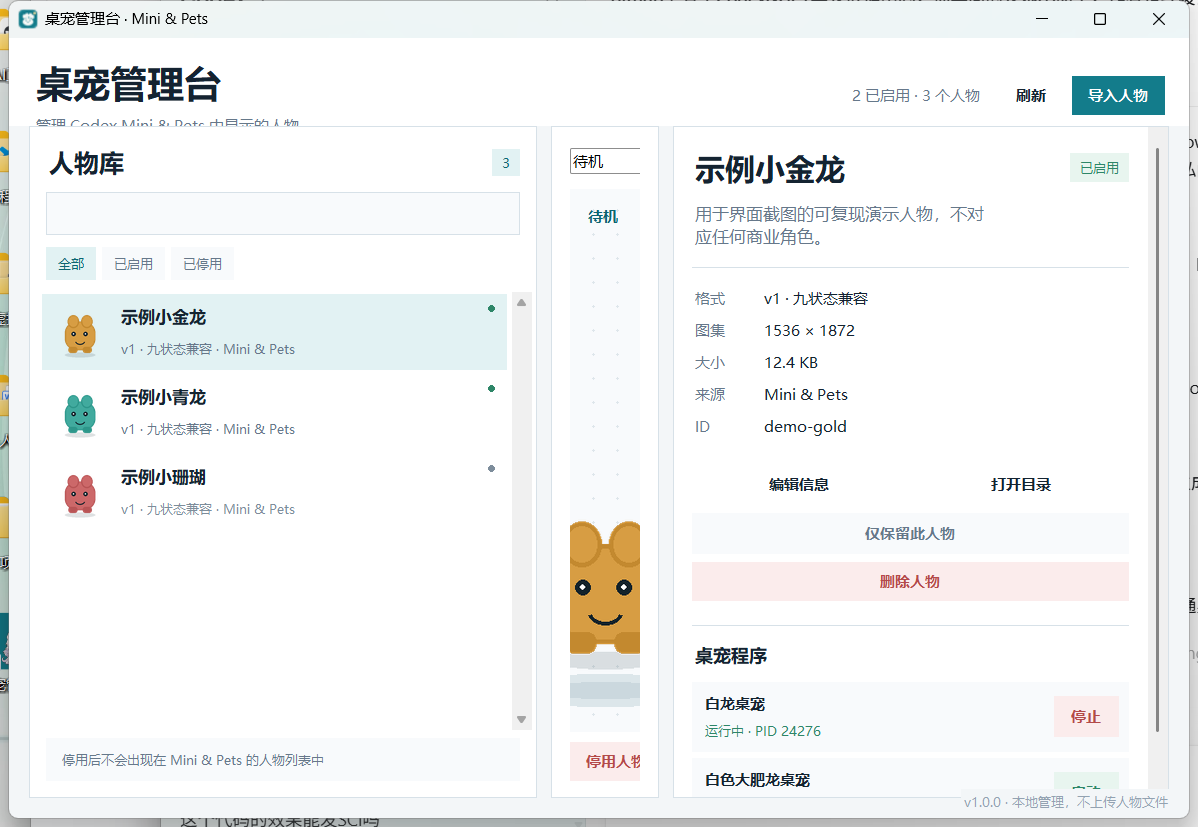
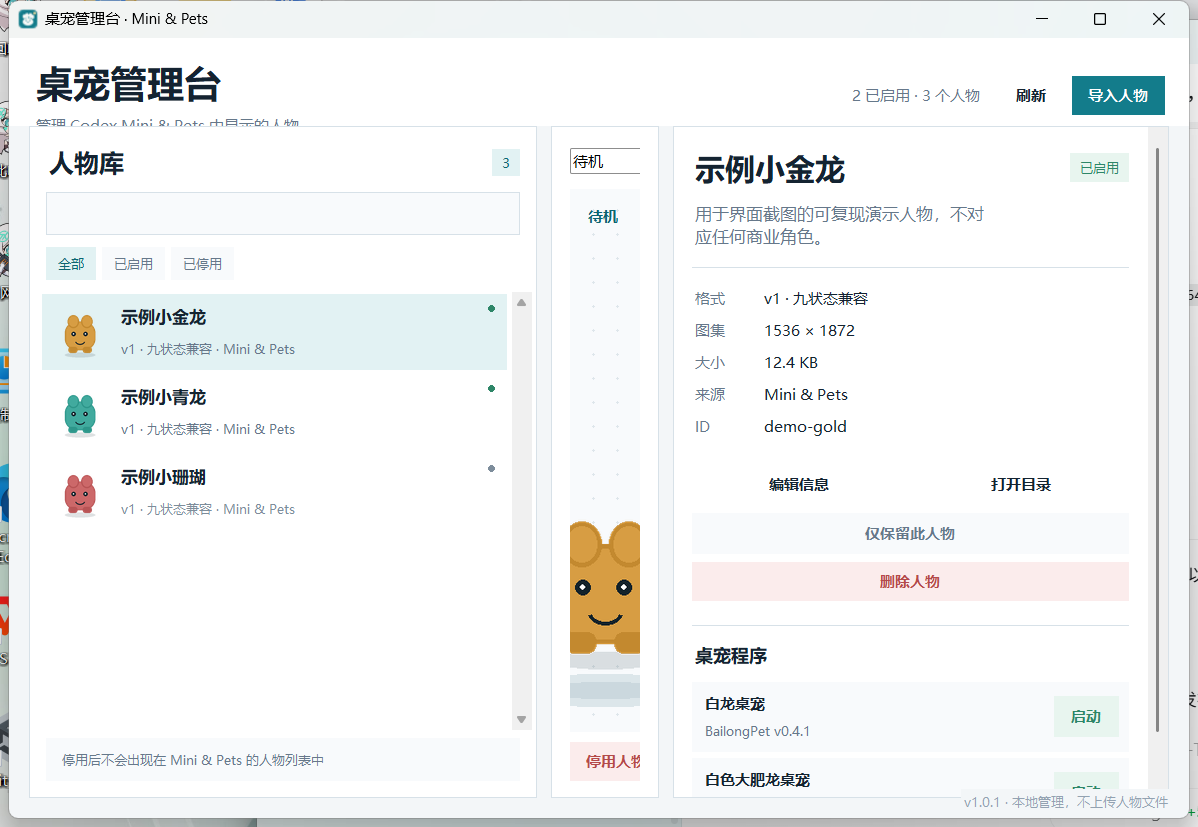
Fix mouse wheel and touchpad scrolling

diff --git a/pet_manager.py b/pet_manager.py
@@ -25,7 +25,7 @@ from pet_core import PetRecord, PetRepository
 
 
 APP_TITLE = "桌宠管理台"
-APP_VERSION = "1.0.0"
+APP_VERSION = "1.0.1"
 
 PALETTE = {
     "bg": "#F3F6F8",
@@ -143,8 +143,6 @@ class ScrollFrame(tk.Frame):
         self.scrollbar.pack(side="right", fill="y")
         self.body.bind("<Configure>", self._on_body)
         self.canvas.bind("<Configure>", self._on_canvas)
-        self.canvas.bind("<Enter>", self._bind_wheel)
-        self.canvas.bind("<Leave>", self._unbind_wheel)
 
     def _on_body(self, _event=None):
         self.canvas.configure(scrollregion=self.canvas.bbox("all"))
@@ -152,14 +150,10 @@ class ScrollFrame(tk.Frame):
     def _on_canvas(self, event):
         self.canvas.itemconfigure(self.window, width=event.width)
 
-    def _bind_wheel(self, _event=None):
-        self.canvas.bind_all("<MouseWheel>", self._wheel)
-
-    def _unbind_wheel(self, _event=None):
-        self.canvas.unbind_all("<MouseWheel>")
-
-    def _wheel(self, event):
-        self.canvas.yview_scroll(int(-event.delta / 120), "units")
+    def scroll_wheel(self, delta: int):
+        steps = wheel_steps(delta)
+        if steps:
+            self.canvas.yview_scroll(steps, "units")
 
 
 class ThumbnailCache:
@@ -439,6 +433,7 @@ class PetManagerApp:
         except Exception:
             pass
         self.root.protocol("WM_DELETE_WINDOW", self._close)
+        self.root.bind_all("<MouseWheel>", self._route_mousewheel, add="+")
         self.root.bind("<Control-r>", lambda _event: self.refresh())
         self.root.bind("<Delete>", lambda _event: self.delete_selected())
         self.root.bind("<F2>", lambda _event: self.edit_selected())
@@ -673,6 +668,15 @@ class PetManagerApp:
     def _set_filter(self, mode: str):
         self.filter_mode = mode
         self._apply_filter()
+
+    def _route_mousewheel(self, event):
+        widget = self.root.winfo_containing(event.x_root, event.y_root)
+        while widget is not None:
+            if isinstance(widget, ScrollFrame):
+                widget.scroll_wheel(event.delta)
+                return "break"
+            widget = widget.master
+        return None
 
     def _update_filter_chips(self):
         for key, widget in self.filter_widgets.items():
@@ -1200,6 +1204,16 @@ def human_size(size: int) -> str:
     if size >= 1024:
         return f"{size / 1024:.1f} KB"
     return f"{size} B"
+
+
+def wheel_steps(delta: int) -> int:
+    """Keep touchpad deltas useful while capping oversized wheel events."""
+    if not delta:
+        return 0
+    steps = int(-delta / 120)
+    if steps == 0:
+        steps = -1 if delta > 0 else 1
+    return max(-5, min(5, steps))
 
 
 def main():

diff --git a/tests/test_pet_manager_helpers.py b/tests/test_pet_manager_helpers.py
@@ -1,0 +1,22 @@
+import unittest
+
+from pet_manager import wheel_steps
+
+
+class WheelRoutingTests(unittest.TestCase):
+    def test_standard_wheel_direction(self):
+        self.assertEqual(wheel_steps(120), -1)
+        self.assertEqual(wheel_steps(-120), 1)
+
+    def test_high_resolution_touchpad_delta_is_not_dropped(self):
+        self.assertEqual(wheel_steps(1), -1)
+        self.assertEqual(wheel_steps(-1), 1)
+        self.assertEqual(wheel_steps(30), -1)
+
+    def test_large_delta_is_bounded(self):
+        self.assertEqual(wheel_steps(12000), -5)
+        self.assertEqual(wheel_steps(-12000), 5)
+
+
+if __name__ == "__main__":
+    unittest.main()

diff --git a/README.md b/README.md
@@ -23,7 +23,7 @@
 从 GitHub Releases 下载：
 
 ```text
-CodexPetManager-v1.0.0-windows-x64.zip
+CodexPetManager-v1.0.1-windows-x64.zip
 ```
 
 完整解压后运行：
@@ -104,14 +104,14 @@ python -m unittest discover -s tests -v
 构建 Windows 单文件版本：
 
 ```powershell
-.\build.ps1 -Version 1.0.0
+.\build.ps1 -Version 1.0.1
 ```
 
 产物位于 `release/`。
 
 ## 发布到 GitHub
 
-仓库已经包含 `.github/workflows/build.yml`。推送 `v1.0.0` 标签后，Actions 会自动：
+仓库已经包含 `.github/workflows/build.yml`。推送 `v1.0.1` 标签后，Actions 会自动：
 
 1. 运行测试
 2. 构建 Windows 单文件程序
@@ -121,8 +121,8 @@ python -m unittest discover -s tests -v
 ```powershell
 git remote add origin https://github.com/<your-name>/<repo>.git
 git push -u origin main
-git tag v1.0.0
-git push origin v1.0.0
+git tag v1.0.1
+git push origin v1.0.1
 ```
 
 ## 隐私与数据

diff --git a/CHANGELOG.md b/CHANGELOG.md
@@ -1,0 +1,14 @@
+# Changelog
+
+## v1.0.1
+
+- Fixed mouse wheel scrolling being disabled when the pointer moved between scroll panels.
+- Added pointer-based wheel routing through child controls.
+- Fixed high-resolution touchpad deltas being rounded to zero.
+- Added wheel direction and delta bounds tests.
+
+## v1.0.0
+
+- Initial Windows desktop pet manager release.
+- Added local Mini & Pets scanning, animated previews, import, enable/disable, rename, and delete.
+- Added BailongPet and dsh-pet process controls.
